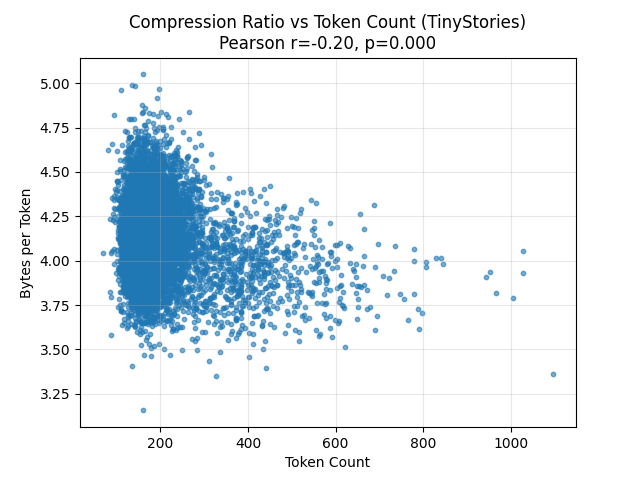
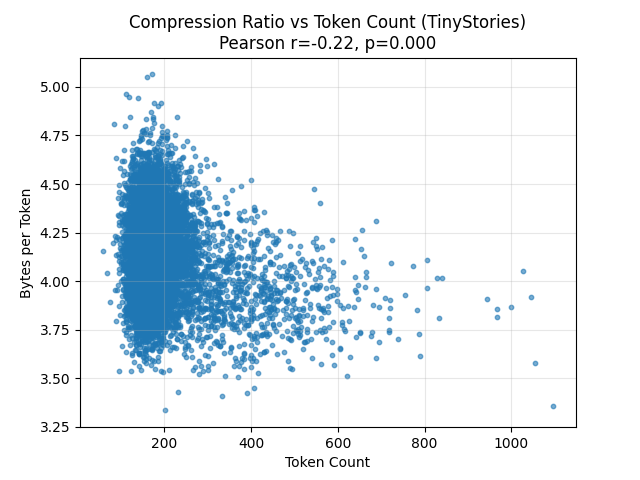
Results: resuls of running the experiments on TinyStories

diff --git a/Experiments/utils.py b/Experiments/utils.py
@@ -1,17 +1,53 @@
-import numpy as np
 import regex as re
 import json
+import re
+import random
+from typing import List
+from pathlib import Path
 
-def sample_stories(path,
-                   number:int = 1000):
+def sample_stories(
+        path: Path,
+        number: int = 1000,
+        delimiter: str = "<|endoftext|>",
+) -> List[str]:
+    if number <= 0:
+        raise ValueError("Number of samples must be positive")
 
-    with open(path / "valid.txt", "r", encoding="utf-8") as f:
-        file = f.read()
 
-    stories = np.array(re.split(r"<\|endoftext\|>", file))
-    indices = np.random.randint(0, len(stories), number)
+    path = Path(path) if isinstance(path, str) else path
 
-    return stories[indices]
+    # Reservoir sampling for file-based corpus
+    reservoir = []
+    current_story = ""
+    story_count = 0
+    pattern = re.compile(re.escape(delimiter))
+
+    with open(path, "r", encoding="utf-8", errors="ignore") as f:
+        for line in f:
+            current_story += line
+            parts = pattern.split(current_story)
+            if len(parts) > 1:
+                # Process complete stories
+                for part in parts[:-1]:
+                    story = part.strip()
+                    if story:
+                        story_count += 1
+                        if len(reservoir) < number:
+                            reservoir.append(story)
+                        else:
+                            if random.random() < number / story_count:
+                                reservoir[random.randint(0, number - 1)] = story
+                current_story = parts[-1]
+
+    if current_story.strip():
+        story_count += 1
+        if len(reservoir) < number:
+            reservoir.append(current_story.strip())
+        else:
+            if random.random() < number / story_count:
+                reservoir[random.randint(0, number - 1)] = current_story.strip()
+
+    return reservoir
 
 def log_stats(stats, output_path):
 
